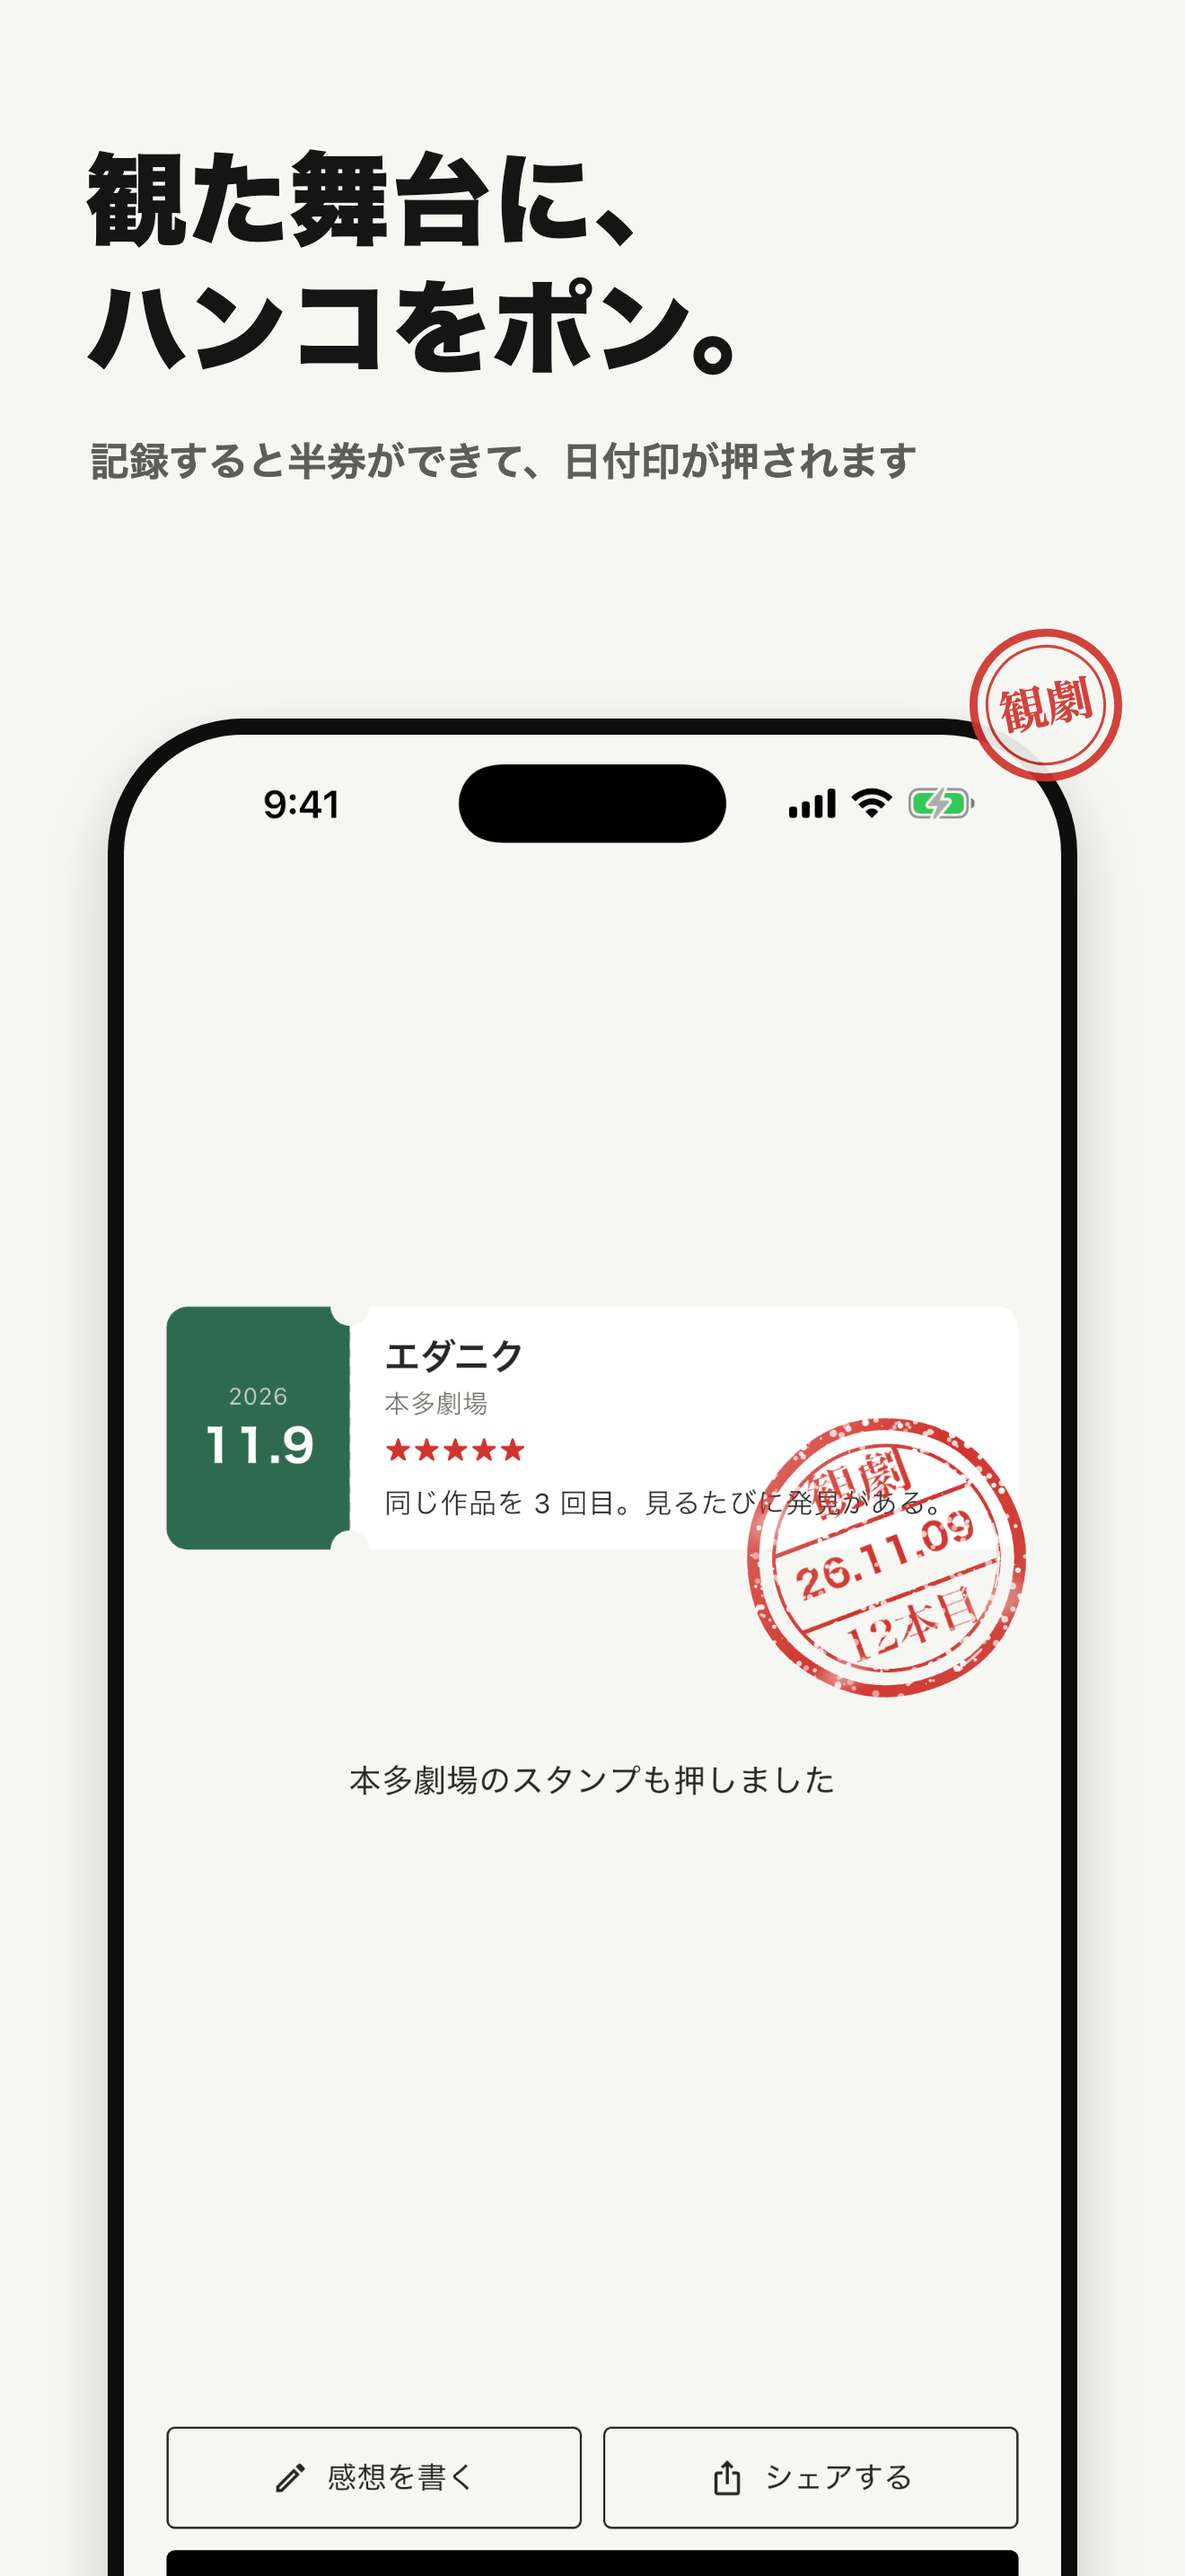
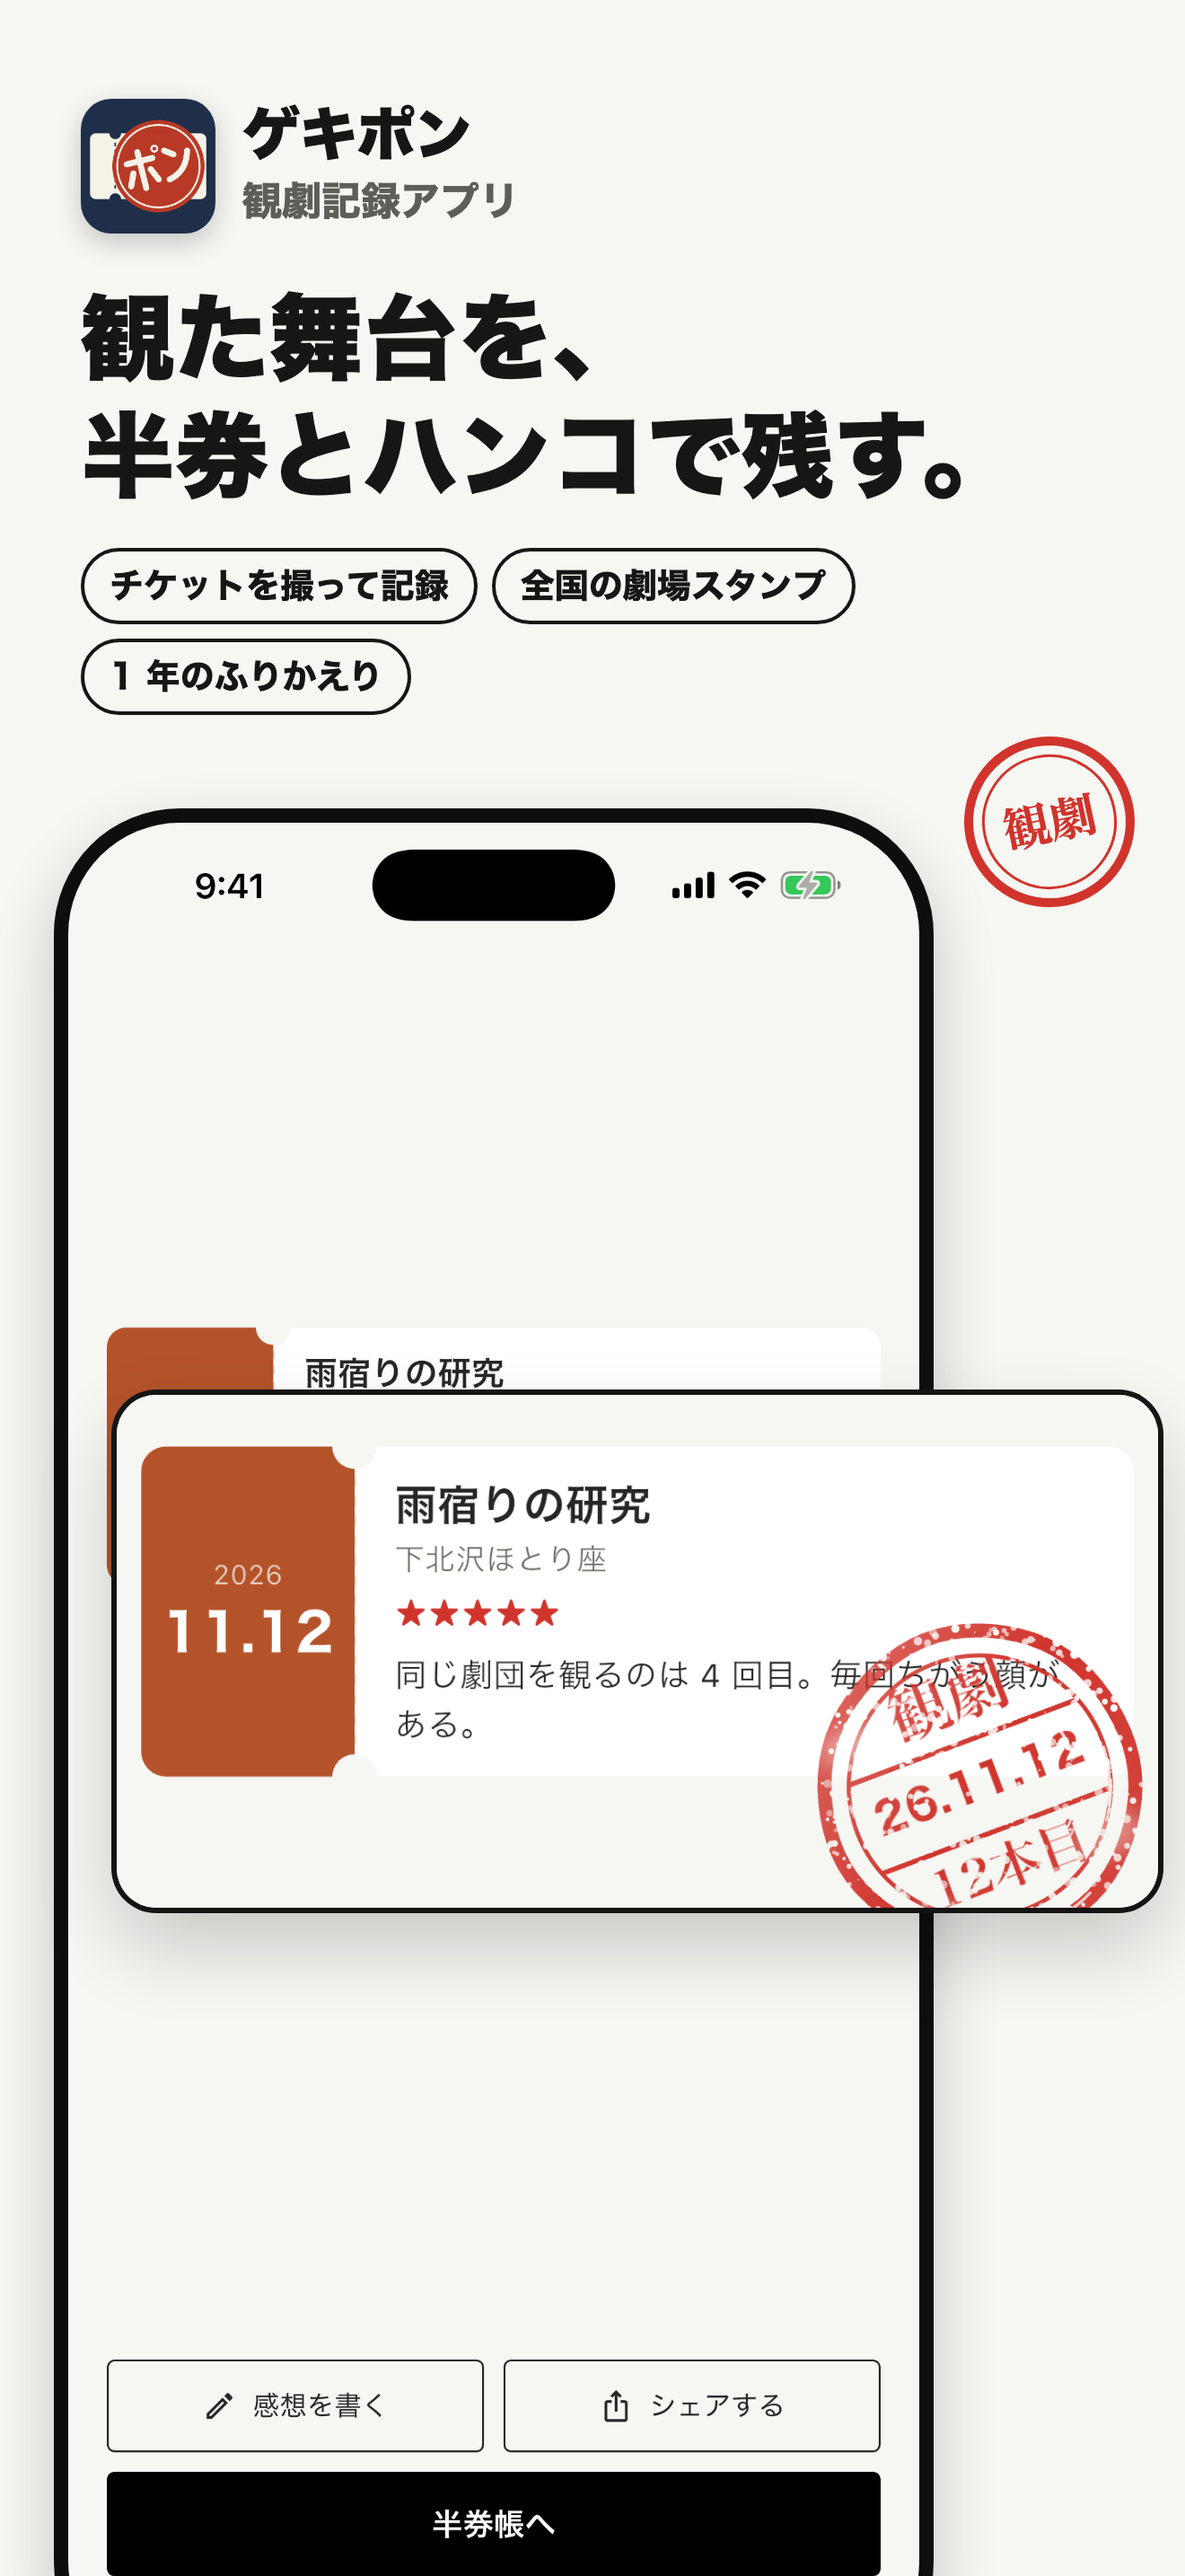
ゲキポン: ストア画像を架空の作品・劇場・写真で撮り直し、1 枚目にアプリの説明と拡大パネルを入れる

Changed region(s): [[0.0311, 0.031, 0.9939, 1.0]]

diff --git a/apps/theater_log/integration_test/store_shots_test.dart b/apps/theater_log/integration_test/store_shots_test.dart
@@ -1,13 +1,19 @@
 // App Store の画像の素材を撮る。iPhone 16 Pro Max（1320×2868）のシミュレーターで流し、
 // 「SHOT 名前」が出たところで xcrun simctl io screenshot する（tool/store_compose/shoot.sh）。
-// 記録はこの端末の中の見本で、作品と劇場はカタログにある実在のもの。感想は見本の文で、他の人の感想は出さない。
+// 作品名・劇団名・劇場名・写真はすべて架空（実在の公演と取り違えられないように）。カタログの劇場もこのテストの中だけ架空のものに差し替える。
+// 写真は tool/store_compose/photos/ の JPEG を --dart-define=PHOTOS=<そのフォルダの絶対パス> で読む（シミュレーターは Mac のファイルを読める）。
+import 'dart:io';
+
 import 'package:flutter/material.dart';
 import 'package:flutter_test/flutter_test.dart';
 import 'package:gikyoku_catalog/gikyoku_catalog.dart';
+import 'package:http/http.dart' as http;
+import 'package:http/testing.dart';
 import 'package:integration_test/integration_test.dart';
 import 'package:shared_preferences/shared_preferences.dart';
 import 'package:theater_log/account/auth_service.dart';
 import 'package:theater_log/catalog/achievements.dart';
+import 'package:theater_log/catalog/log_photos.dart';
 import 'package:theater_log/catalog/theater_log.dart';
 import 'package:theater_log/main.dart';
 import 'package:theater_log/screens/quick_log_sheet.dart';
@@ -26,40 +32,59 @@ void main() {
   testWidgets('store shots', (tester) async {
     SharedPreferences.setMockInitialValues({'community_rules_v2': true});
     final repository = CatalogRepository();
-    final catalog = await repository.load();
-    final plays = {for (final p in catalog.plays) p.title: p};
+    final real = await repository.load();
+    // 架空の劇場（都道府県だけは実在。地図に足あとを付けるため）
+    const fictional = [
+      ('下北沢ほとり座', '東京都'), ('中野こもれび劇場', '東京都'), ('高円寺あかり小劇場', '東京都'), ('池袋まわり舞台', '東京都'),
+      ('横浜みなと座', '神奈川県'), ('京都いとへん劇場', '京都府'), ('大阪ともしびホール', '大阪府'), ('名古屋ひだまり座', '愛知県'),
+      ('福岡なぎさ劇場', '福岡県'), ('札幌ゆきあかり劇場', '北海道'), ('仙台けやき座', '宮城県'), ('金沢こはく劇場', '石川県'),
+      ('広島みずべ劇場', '広島県'), ('松山いでゆ座', '愛媛県'), ('那覇あおぞら劇場', '沖縄県'), ('新潟こめどころ座', '新潟県'),
+      ('静岡ちゃばたけ劇場', '静岡県'), ('神戸はとば座', '兵庫県'), ('岡山ももいろ劇場', '岡山県'), ('熊本ひのくに座', '熊本県'),
+      ('長野やまなみ劇場', '長野県'), ('盛岡いわて座', '岩手県'), ('高松うどん座', '香川県'), ('鹿児島さくらじま劇場', '鹿児島県'),
+    ];
+    final catalog = Catalog(
+      generatedAt: real.generatedAt,
+      categories: real.categories,
+      plays: const [],
+      venues: [for (final (i, v) in fictional.indexed) Venue(9001 + i, v.$1, v.$2)],
+    );
+    const photoDir = String.fromEnvironment('PHOTOS');
+    Future<List<String>> photos(List<String> names) async => [
+      for (final n in names)
+        if (photoDir.isNotEmpty) await LogPhotos.save(File('$photoDir/$n.jpg')),
+    ];
     final log = TheaterLog();
     final y = DateTime.now().year;
-    // （題名, 月, 日, 劇場, 劇団, 評価, 昼夜, ひとこと）
+    // （題名, 月, 日, 劇場, 劇団, 評価, 昼夜, ひとこと, 写真）
     const rows = [
-      ('東京ノート', 1, 18, 'こまばアゴラ劇場', '青年団', 5, 'soiree', '美術館のロビーだけで、遠い戦争の気配が伝わってくる。'),
-      ('赤鬼', 2, 9, '本多劇場', null, 4, 'matinee', ''),
-      ('三月の5日間', 3, 5, 'KAAT神奈川芸術劇場', null, 4, 'soiree', '語りのリズムが体に残る。'),
-      ('エダニク', 4, 20, 'ザ・スズナリ', null, 5, 'soiree', '休憩室だけで、ここまで緊張が続くとは。'),
-      ('わが星', 5, 11, '座・高円寺', null, 5, 'matinee', 'ラップと時報。帰り道ずっと口ずさんでいた。'),
-      ('かもめ', 6, 2, '世田谷パブリックシアター', null, 3, 'soiree', ''),
-      ('夏の夜の夢', 7, 26, 'ロームシアター京都', null, 4, 'matinee', '京都まで遠征。森の場面の照明がきれい。'),
-      ('赤鬼', 8, 30, 'in→dependent theatre', null, 4, 'soiree', '大阪の小さな劇場で、同じ作品をもう一度。'),
-      ('東京ノート', 9, 14, '名古屋市芸術創造センター', null, 4, 'matinee', ''),
-      ('エダニク', 10, 4, 'アートマネージメントセンター福岡', null, 5, 'soiree', '福岡でも。客席の笑いの起き方が違う。'),
-      ('わが星', 10, 25, '本多劇場', null, 5, 'soiree', ''),
+      ('夜明けの待合室', 1, 18, '下北沢ほとり座', 'ユニット灯台', 5, 'soiree', '駅の待合室だけで、ひと晩の人生が見えてくる。', ['stage_blue']),
+      ('港町クロニクル', 3, 14, '横浜みなと座', '劇団あおぞら座', 4, 'matinee', '', ['flyer_minato']),
+      ('さよならの温度', 4, 5, '中野こもれび劇場', '劇団ひとつぶ', 4, 'soiree', '台詞の少ない場面ほど、ずっと覚えている。', ['stage_amber']),
+      ('月曜日の鯨', 5, 11, '下北沢ほとり座', 'ユニット灯台', 5, 'matinee', '笑って、最後に少し泣いた。帰り道ずっと考えていた。', ['flyer_kujira', 'stage_green']),
+      ('赤い傘の午後', 7, 2, '中野こもれび劇場', '劇団ひとつぶ', 3, 'soiree', '', ['flyer_kasa']),
+      ('三番線のベンチ', 7, 26, '京都いとへん劇場', '東風舎', 4, 'matinee', '京都まで遠征。小さな劇場の近さがいい。', ['stage_red']),
+      ('ひとりぼっちの合唱', 8, 30, '大阪ともしびホール', '劇団つきよみ', 4, 'soiree', '大阪でもう一度。客席の笑いの起き方が違う。', <String>[]),
+      ('星を数える部屋', 9, 14, '名古屋ひだまり座', '東風舎', 4, 'matinee', '', ['flyer_hoshi']),
+      ('灯台守の娘', 10, 4, '福岡なぎさ劇場', '劇団つきよみ', 5, 'soiree', '福岡で。最後の明かりがずっと目に残っている。', ['flyer_tomoshibi', 'stage_dawn']),
+      ('透明な隣人', 10, 25, '高円寺あかり小劇場', '劇団ひとつぶ', 5, 'soiree', '', ['stage_green']),
+      ('雨宿りの研究', 11, 3, '下北沢ほとり座', 'ユニット灯台', 5, 'matinee', '同じ劇団を観るのは 3 回目。毎回ちがう顔がある。', ['stage_amber']),
     ];
     for (final (i, r) in rows.indexed) {
-      final p = plays[r.$1];
       await log.upsert(TheaterLogEntry(
         id: 'shot$i',
         title: r.$1,
         watchedOn: DateTime(y, r.$2, r.$3),
-        playId: p?.id,
-        author: p?.author,
         venue: r.$4,
         group: r.$5,
         rating: r.$6,
         showTime: r.$7,
         note: r.$8,
+        photos: await photos(r.$9),
       ));
     }
-    await tester.pumpWidget(App(repository: repository, catalog: catalog, log: log, auth: AuthService()));
+    // 撮影中に本物のカタログに入れ替わらないよう、取りに行く先は「変わりなし」を返す
+    final offline = CatalogRepository(client: MockClient((_) async => http.Response('', 304)));
+    await tester.pumpWidget(App(repository: offline, catalog: catalog, log: log, auth: AuthService()));
     await tester.pumpAndSettle();
 
     // 半券帳（1 枚ずつの表示）
@@ -75,7 +100,7 @@ void main() {
     QuickLogSheet.open(ctx);
     await tester.pumpAndSettle();
     await _shot('record');
-    await tester.enterText(find.byKey(const Key('quick-title')), 'エダニク');
+    await tester.enterText(find.byKey(const Key('quick-title')), '雨宿りの研究');
     await tester.pumpAndSettle();
     FocusManager.instance.primaryFocus?.unfocus();
     await tester.pumpAndSettle();
@@ -83,14 +108,14 @@ void main() {
     await tester.pumpAndSettle();
     await tester.tap(find.byKey(const Key('venue-open')));
     await tester.pumpAndSettle();
-    await tester.enterText(find.byKey(const Key('venue-query')), '本多');
+    await tester.enterText(find.byKey(const Key('venue-query')), 'ほとり');
     await tester.pumpAndSettle();
-    await tester.tap(find.byKey(const Key('venue-hit-4')));
+    await tester.tap(find.byKey(const Key('venue-hit-9001')));
     await tester.pumpAndSettle();
     await tester.tap(find.byKey(const Key('flow-next')));
     await tester.pumpAndSettle();
     await tester.tap(find.byKey(const Key('quick-star-5')));
-    await tester.enterText(find.byKey(const Key('quick-note')), '同じ作品を 3 回目。見るたびに発見がある。');
+    await tester.enterText(find.byKey(const Key('quick-note')), '同じ劇団を観るのは 4 回目。毎回ちがう顔がある。');
     FocusManager.instance.primaryFocus?.unfocus();
     await tester.pumpAndSettle();
     await _shot('rating');
